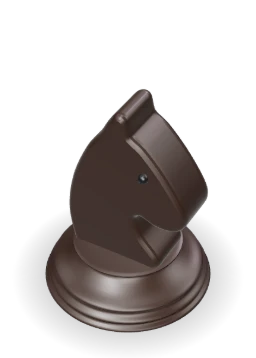
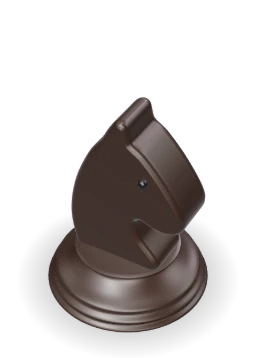
Release 1.63.3: boards fit again, full screen, chess capture sounds and clearer pieces, Undo, settings gear, SEO refresh

diff --git a/components/ui/icons.generated.ts b/components/ui/icons.generated.ts
@@ -57,6 +57,8 @@ export const ICONS: Record<string, string> = {
   "confetti": "<path d=\"M114.32,49.8A19.79,19.79,0,0,0,81.72,57L29.22,201.41A19.82,19.82,0,0,0,47.75,228a20,20,0,0,0,6.84-1.22L199,174.28a19.79,19.79,0,0,0,7.24-32.6ZM104.19,183.21l-31.4-31.4L82.94,123.9l49.16,49.16Zm-52.42,26.4Zm12-32.91L79.3,192.26l-24.45,8.89ZM157,164,92,99l10-27.58L184.57,154ZM128,40V16a12,12,0,0,1,24,0V40a12,12,0,0,1-24,0Zm116.48,83.51a12,12,0,0,1-17,17l-16-16a12,12,0,0,1,17-17Zm-.69-40.13-24,8a12,12,0,0,1-7.59-22.77l24-8a12,12,0,1,1,7.59,22.77ZM156.6,65.93C159.83,47.47,173.39,36,192,36c6.45,0,8.69-2.49,10-4.92a18,18,0,0,0,2-7.22V24a12,12,0,0,1,24,0c0,14.47-9.59,36-36,36-4.94,0-10.21,1.19-11.76,10.06A12,12,0,0,1,168.43,80a12.35,12.35,0,0,1-2.08-.18A12,12,0,0,1,156.6,65.93Z\"/>",
   "cooking-pot": "<path d=\"M253.76,93A12,12,0,0,0,237,90.24l-9,6.44V80a12,12,0,0,0-12-12H40A12,12,0,0,0,28,80V96.68l-9-6.44A12,12,0,1,0,5,109.76l23,16.42V184a36,36,0,0,0,36,36H192a36,36,0,0,0,36-36V126.18l23-16.42A12,12,0,0,0,253.76,93ZM204,184a12,12,0,0,1-12,12H64a12,12,0,0,1-12-12V92H204ZM76,40V16a12,12,0,0,1,24,0V40a12,12,0,0,1-24,0Zm40,0V16a12,12,0,0,1,24,0V40a12,12,0,0,1-24,0Zm40,0V16a12,12,0,0,1,24,0V40a12,12,0,0,1-24,0Z\"/>",
   "copy": "<path d=\"M216,28H88A12,12,0,0,0,76,40V76H40A12,12,0,0,0,28,88V216a12,12,0,0,0,12,12H168a12,12,0,0,0,12-12V180h36a12,12,0,0,0,12-12V40A12,12,0,0,0,216,28ZM156,204H52V100H156Zm48-48H180V88a12,12,0,0,0-12-12H100V52H204Z\"/>",
+  "corners-in": "<path d=\"M148,96V48a12,12,0,0,1,24,0V84h36a12,12,0,0,1,0,24H160A12,12,0,0,1,148,96ZM96,148H48a12,12,0,0,0,0,24H84v36a12,12,0,0,0,24,0V160A12,12,0,0,0,96,148Zm112,0H160a12,12,0,0,0-12,12v48a12,12,0,0,0,24,0V172h36a12,12,0,0,0,0-24ZM96,36A12,12,0,0,0,84,48V84H48a12,12,0,0,0,0,24H96a12,12,0,0,0,12-12V48A12,12,0,0,0,96,36Z\"/>",
+  "corners-out": "<path d=\"M220,48V88a12,12,0,0,1-24,0V60H168a12,12,0,0,1,0-24h40A12,12,0,0,1,220,48ZM88,196H60V168a12,12,0,0,0-24,0v40a12,12,0,0,0,12,12H88a12,12,0,0,0,0-24Zm120-40a12,12,0,0,0-12,12v28H168a12,12,0,0,0,0,24h40a12,12,0,0,0,12-12V168A12,12,0,0,0,208,156ZM88,36H48A12,12,0,0,0,36,48V88a12,12,0,0,0,24,0V60H88a12,12,0,0,0,0-24Z\"/>",
   "crown": "<path d=\"M252,80a32,32,0,1,0-60,15.45l-20.86,25.66L150.82,74.4a32,32,0,1,0-45.64,0L84.87,121.11,64,95.45a32,32,0,1,0-35,15.78l14,84.06A19.94,19.94,0,0,0,62.78,212H193.22A19.94,19.94,0,0,0,213,195.29l14-84.06A32.05,32.05,0,0,0,252,80Zm-32-8a8,8,0,1,1-8,8A8,8,0,0,1,220,72ZM128,44a8,8,0,1,1-8,8A8,8,0,0,1,128,44ZM36,72a8,8,0,1,1-8,8A8,8,0,0,1,36,72ZM189.83,188H66.17L55.29,122.78l23.4,28.79A12,12,0,0,0,88,156a12.87,12.87,0,0,0,1.63-.11,12,12,0,0,0,9.37-7.1L127.18,84l.82,0,.82,0L157,148.79a12,12,0,0,0,9.37,7.1A12.87,12.87,0,0,0,168,156a12,12,0,0,0,9.31-4.43l23.4-28.79Z\"/>",
   "crown-simple": "<path d=\"M232.63,70a19.82,19.82,0,0,0-23.55,4.71l-29.52,31.82L146.22,31.76l-.06-.14a20,20,0,0,0-36.32,0l-.06.14L76.44,106.52,46.92,74.7a20,20,0,0,0-34.6,16.81c0,.16.06.31.09.47L35.07,195.76A20,20,0,0,0,54.71,212H201.29a20,20,0,0,0,19.64-16.24L243.59,92c0-.16.07-.31.09-.47A19.82,19.82,0,0,0,232.63,70ZM198.06,188H57.94L39.06,101.51,71.2,136.16A12,12,0,0,0,91,132.89l37-83.07,37,83.07a12,12,0,0,0,19.76,3.27l32.14-34.65Z\"/>",
   "cube": "<path d=\"M225.6,62.64l-88-48.17a19.91,19.91,0,0,0-19.2,0l-88,48.17A20,20,0,0,0,20,80.19v95.62a20,20,0,0,0,10.4,17.55l88,48.17a19.89,19.89,0,0,0,19.2,0l88-48.17A20,20,0,0,0,236,175.81V80.19A20,20,0,0,0,225.6,62.64ZM128,36.57,200,76,128,115.4,56,76ZM44,96.79l72,39.4v76.67L44,173.44Zm96,116.07V136.19l72-39.4v76.65Z\"/>",

diff --git a/lib/copy/seo.ts b/lib/copy/seo.ts
@@ -52,7 +52,10 @@ export const GAME_SEO: Record<string, { kind: string; where: string }> = {
     kind: "logic puzzle",
     where: "fill the grid with suns and moons, an equal number in every row and column and never three in a line",
   },
-  sixer: { kind: "6x6 sudoku", where: "place the numbers 1 to 6 once in every row, every column and every 2 by 3 box" },
+  sixer: {
+    kind: "number grid (sudoku style)",
+    where: "pick a 6 by 6 or 9 by 9 board, then place every number once in each row, column and box",
+  },
   nine: { kind: "sudoku", where: "place the numbers 1 to 9 once in every row, every column and every 3 by 3 box" },
   weave: { kind: "path puzzle", where: "draw one path through the numbers in order that fills every cell of the grid" },
   flowline: { kind: "pipe puzzle", where: "rotate the pipes until water reaches every plant" },
@@ -195,6 +198,8 @@ export const siteFaq = (games: number = GAME_COUNT, worlds: number = WORLD_COUNT
 /** What SPUZL offers, one line each (llms-full.txt "Features" and the app's structured data featureList). */
 export const FEATURES: readonly string[] = [
   "Free play: every game any time, with fresh puzzles and levels that get harder.",
+  "Arcade: Gotcha, a trap platformer where every room tricks you once; Dash, an endless runner where you jump and duck; plus Echo, Flinch and Twins.",
+  "Kente: number grids at 6 by 6 or 9 by 9, picked before each game.",
   "Daily Five: five quick games a day, the same for everyone, with a shareable score grid.",
   "Streaks with Streak Freezes, quests, badges and levels.",
   "Duel: a live best-of-three race against a friend or a matched player.",
@@ -206,6 +211,8 @@ export const FEATURES: readonly string[] = [
   "Sparks earned by playing, spent in the Shop on hats for Spuz. Nothing is sold for money.",
   "Accessible: keyboard play, screen reader labels, colour patterns and reduced motion.",
   "Installable app (PWA) that works offline for puzzles already on screen.",
+  "Made for phones, tablets and computers: boards grow to fill big screens, and every game has a full-screen button.",
+  "Notifications on Home: your weekly roundup, new games, friend requests and Board Games waiting on your move.",
   "Feedback form on the Contact page; download or delete your data in Settings.",
 ];
 

diff --git a/design/design_handoff_spuzl/design/spuzl3d.js b/design/design_handoff_spuzl/design/spuzl3d.js
@@ -63,7 +63,9 @@ function snap(C, size, alignBottom) {
 const base = (br) => [[0, 0], [br, 0], [br, .035], [br + .012, .06], [br - .02, .09], [br - .02, .12], [br - .09, .16]];
 const arc = (cy, r, a0, a1, n = 12) => Array.from({ length: n + 1 }, (_, i) => { const a = a0 + (a1 - a0) * i / n; return [Math.max(0, r * Math.cos(a)), cy + r * Math.sin(a)]; });
 const PROFILES = {
-  P: [...base(.38), [.19, .22], [.14, .34], [.12, .48], [.20, .52], [.21, .555], [.12, .58], ...arc(.72, .165, -1.15, Math.PI / 2)],
+  // Pawn: a wide base, a short thick neck, a broad collar and a big round head (owner, 14 Nov 2026: pawns read as
+  // bishops). Same height as before, so every other piece keeps its scale.
+  P: [...base(.41), [.25, .20], [.18, .29], [.155, .42], [.27, .465], [.28, .505], [.16, .54], ...arc(.70, .19, -1.0, Math.PI / 2)],
   R: [...base(.42), [.27, .22], [.23, .36], [.22, .62], [.30, .66], [.30, .70], [.27, .72], [.29, .78], [.295, .84], [.27, .855], [.2, .85], [.19, .80], [0, .79]],
   N: [...base(.42), [.26, .22], [.28, .26], [0, .27]],
   B: [...base(.40), [.20, .22], [.14, .40], [.12, .60], [.21, .64], [.21, .68], [.11, .71], [.15, .76], [.18, .84], [.18, .92], [.15, 1.0], [.10, 1.06], [.05, 1.10], [.03, 1.11], ...arc(1.15, .05, -1.17, Math.PI / 2, 6)],
@@ -163,9 +165,10 @@ function outline(src, color, px, blur = 0) {
 }
 /** The live set: boxwood and ebony, with a soft brown edge on the light pieces so they read on light squares. */
 export const PIECE_SET = {
-  white: { color: 0xE2B577, env: .4, rough: .45, exposure: .95, coat: .3 },
+  // Light pieces a deeper boxwood (owner, 14 Nov 2026: "browning the white pieces"), with a firmer brown edge.
+  white: { color: 0xD39A55, env: .4, rough: .45, exposure: .95, coat: .3 },
   black: { color: 0x2A1A12, env: .7, rough: .4, coat: .5 },
-  whiteLine: { color: [80, 45, 15, .32], px: 2, blur: 1.4 },
+  whiteLine: { color: [70, 38, 12, .45], px: 2, blur: 1.2 },
 };
 export function pieces(size = 256, opt = PIECE_SET) {
   const key = 'pieces-v6:' + size + JSON.stringify(opt); const hit = cacheGet(key);

diff --git a/components/multiplayer/bay/boards.tsx b/components/multiplayer/bay/boards.tsx
@@ -1,6 +1,7 @@
 "use client";
 
 import { useEffect, useMemo, useRef, useState, type KeyboardEvent, type ReactNode } from "react";
+import { play } from "@/lib/audio";
 import { gridMove, gridMoveRC } from "@/lib/multiplayer/grid-nav";
 import { Icon } from "@/components/ui/Icon";
 import { boardGames } from "@/lib/copy/board-games";
@@ -210,7 +211,9 @@ const tc = boardGames.chess;
 
 function ChessLive({ state, seat, legal, disabled, lastMove, onMove, announce, coords }: LiveBoardProps) {
   const s = state as ChessMatch;
-  const cell = useCellSize(8, 0, 10, 48);
+  // 8.6 rows of height: the back-rank pieces stand 0.4 of a square above the board (3D sprites), and the file letters
+  // sit under it, so a wide screen keeps the whole board in view (owner, 14 Nov 2026).
+  const cell = useCellSize(8, 0, 10, 48, 8.6);
   const sprites = useSprites();
   const [sel, setSel] = useState<string | null>(null);
   /** a pawn move to the last rank waiting for the player's choice of piece (uci from+to), for this position only */
@@ -230,6 +233,19 @@ function ChessLive({ state, seat, legal, disabled, lastMove, onMove, announce, c
     setSel(null);
   }
   const sending = sent?.fen === s.fen ? sent.move : null;
+  // Every move, by either side, sounds like what it did (owner, 14 Nov 2026): a capture knocks, a check rings, the
+  // rest is a plain placement. An undo (pieces come back) stays quiet.
+  const lastFen = useRef(s.fen);
+  useEffect(() => {
+    const before = lastFen.current;
+    lastFen.current = s.fen;
+    if (before === s.fen) return;
+    const count = (fen: string) => fen.split(" ")[0].replace(/[^a-zA-Z]/g, "").length;
+    const was = count(before);
+    const now = count(s.fen);
+    if (now > was) return;
+    play(now < was ? "pieceCapture" : inCheck(parseFen(s.fen)) ? "pieceCheck" : "piecePlace");
+  }, [s.fen]);
   const pos = useMemo(() => {
     const p = parseFen(s.fen);
     const m = sending ? fromUci(p, sending) : null;

diff --git a/components/play/BotBoard.tsx b/components/play/BotBoard.tsx
@@ -98,7 +98,8 @@ export default function BotBoard({ puzzle, disabled, api, extra }: BoardProps<Bo
       const m = bot.choose(state, turn, puzzle.level, r);
       const next = bot.rules.apply(state, turn, m, r);
       plies.current++;
-      play(isRoll(m) ? "tick" : "clack");
+      // Chess sounds its own moves (capture, check, placement: bay/boards.tsx ChessLive).
+      if (puzzle.game !== "chess") play(isRoll(m) ? "tick" : "clack");
       setLast(m);
       setState(next);
       const st = bot.rules.status(next);
@@ -113,7 +114,7 @@ export default function BotBoard({ puzzle, disabled, api, extra }: BoardProps<Bo
       }
     }, BOT_DELAY_MS);
     return () => clearTimeout(id);
-  }, [bot, state, over, turn, disabled, puzzle.level, api, ludo]);
+  }, [bot, state, over, turn, disabled, puzzle.level, puzzle.game, api, ludo]);
 
   const thinking = !!bot && !!state && !over && turn !== ME && !disabled;
   // Restart confirm (Restart is in the game menu); a game with a move in it is worth asking about.
@@ -131,7 +132,7 @@ export default function BotBoard({ puzzle, disabled, api, extra }: BoardProps<Bo
       const next = rules.apply(state, ME, m, rng.current);
       plies.current++;
       setMoved(true);
-      play(isRoll(m) ? "tick" : "clack");
+      if (puzzle.game !== "chess") play(isRoll(m) ? "tick" : "clack");
       // Undo goes back to the start of the player's move (Ludo has dice, so no undo there).
       if (!ludo && !isRoll(m)) setHistory((h) => [...h, state]);
       setLast(m);
@@ -155,7 +156,7 @@ export default function BotBoard({ puzzle, disabled, api, extra }: BoardProps<Bo
         api.announce(t.passed);
       }
     },
-    [rules, state, disabled, over, turn, ludo, api],
+    [rules, state, disabled, over, turn, ludo, api, puzzle.game],
   );
 
   // A tap the rules refuse (a compulsory capture, an empty pit): the reason in the feedback line, with the slip

diff --git a/components/game/GameShell.tsx b/components/game/GameShell.tsx
@@ -26,9 +26,14 @@ import { copy } from "@/lib/copy";
 import { leaveCopy } from "@/lib/copy/leave";
 import { leavePolicy, type LeaveContext } from "@/lib/game/leave";
 import { WideZoom } from "./WideZoom";
+import { FullscreenButton } from "./FullscreenButton";
 
-/** Boards that size themselves to the wide screen (no extra zoom): Five fits its tiles to the height left over. */
-const SIZES_ITSELF = new Set(["five"]);
+/**
+ * Boards that stay at their phone size on a wide screen and are safe to scale up as a whole (components/game/WideZoom).
+ * Opt-in only (owner, 14 Nov 2026): boards that size themselves from their container (chess and the other board
+ * games, the grids) are never zoomed, or the two would feed each other and the board would grow off the screen.
+ */
+const ZOOMED = new Set(["quads", "remix", "quickfire", "flagged", "twotruths", "emojihits", "echo", "flinch", "seven", "rungs", "oware"]);
 import {
   useViewportHeight,
   useViewportWidth,
@@ -645,6 +650,7 @@ export function GameShell<P, St>(props: GameShellProps<P, St>) {
       {wide && !banner && (
         <div className="flex max-w-[640px] min-w-0 flex-[2] items-center justify-center">{foldingRule("min-w-0", true)}</div>
       )}
+      <FullscreenButton />
       {/* R2-15: the one header timer. Never in a practice round; before the first move it holds its place with the
           clock icon only (never "00:00"), and the digits appear once it runs. A resumed game shows its time. */}
       {!relaxed && !guided && (
@@ -708,7 +714,7 @@ export function GameShell<P, St>(props: GameShellProps<P, St>) {
           </motion.div>
         )}
       </AnimatePresence>
-      <WideZoom on={wide && meta.engine !== "phaser" && !SIZES_ITSELF.has(meta.id)} column={colW}>
+      <WideZoom on={wide && ZOOMED.has(meta.id)} column={colW}>
         <Board
           {...extra}
           extra={extra}

diff --git a/components/game/FullscreenButton.tsx b/components/game/FullscreenButton.tsx
@@ -1,0 +1,37 @@
+"use client";
+
+import { useEffect, useState } from "react";
+import { IconButton } from "@/components/ui/IconButton";
+import { gameMenuCopy as M } from "@/lib/copy/game-menu";
+
+/**
+ * Full screen for a game (owner, 14 Nov 2026): the browser's own full screen (no address bar or tabs), and the same
+ * button (or Esc) brings it back. Hidden where the browser can't do it (an iPhone's Safari), so it never does nothing.
+ */
+export function FullscreenButton() {
+  const [can, setCan] = useState(false);
+  const [on, setOn] = useState(false);
+  useEffect(() => {
+    // eslint-disable-next-line react-hooks/set-state-in-effect -- the browser's support is only known on the client
+    setCan(!!document.fullscreenEnabled);
+    const sync = () => setOn(!!document.fullscreenElement);
+    sync();
+    document.addEventListener("fullscreenchange", sync);
+    return () => document.removeEventListener("fullscreenchange", sync);
+  }, []);
+  if (!can) return null;
+  return (
+    <IconButton
+      icon={on ? "corners-in" : "corners-out"}
+      label={on ? M.fullscreenExit : M.fullscreen}
+      title={on ? M.fullscreenExit : M.fullscreen}
+      aria-pressed={on}
+      data-fullscreen
+      className="max-[359px]:hidden"
+      onClick={() => {
+        if (document.fullscreenElement) void document.exitFullscreen().catch(() => {});
+        else void document.documentElement.requestFullscreen({ navigationUI: "hide" }).catch(() => {});
+      }}
+    />
+  );
+}

diff --git a/components/multiplayer/bay/BayScreen.tsx b/components/multiplayer/bay/BayScreen.tsx
@@ -525,10 +525,10 @@ export function BayMatch({ id }: { id: string }) {
   const tools = [
     v.game !== "ludo" && !v.rated
       ? {
-          l: "Takeback",
+          l: "Undo",
           i: "arrow-u-up-left",
           c: "var(--text-muted)",
-          on: () => action("takeback_request", v.bot ? undefined : "Takeback asked."),
+          on: () => action("takeback_request", v.bot ? undefined : "Asked to undo."),
           // Nothing of yours to take back yet: off, and it says why (the server refuses it too).
           off: takebackPlies(v.moves, seat) === 0 ? boardGames.match.noTakeback : undefined,
         }
@@ -588,7 +588,7 @@ export function BayMatch({ id }: { id: string }) {
   const offer = (offerFromThem(v.drawOffer) || offerFromThem(v.takebackOffer)) && v.status === "active" && (
     <div className={`bg-surface-raised flex items-center gap-2 rounded-[16px] p-3 ${gap}`} role="alert">
       <span className="flex-1 text-[15px] font-medium">
-        {offerFromThem(v.drawOffer) ? `${opp?.nickname} offers a draw.` : `${opp?.nickname} asks for a takeback.`}
+        {offerFromThem(v.drawOffer) ? `${opp?.nickname} offers a draw.` : `${opp?.nickname} asks to undo their last move.`}
       </span>
       <button
         type="button"

diff --git a/components/game/useBoardSize.ts b/components/game/useBoardSize.ts
@@ -68,7 +68,16 @@ export function wideAside(vw: number): number {
  * together in the middle of the page, so spare width goes to the outer margins, never between board and panel.
  * Square boards are 1; wide boards (a pit row, a running course) are wider.
  */
-export const WIDE_ASPECT: Record<string, number> = { five: 0.62, oware: 2.4, gotcha: 1.8, dash: 1.8, fourup: 1.17, remix: 1.3, quads: 1.3 };
+export const WIDE_ASPECT: Record<string, number> = {
+  chess: 0.93,
+  five: 0.62,
+  oware: 2.4,
+  gotcha: 1.8,
+  dash: 1.8,
+  fourup: 1.17,
+  remix: 1.3,
+  quads: 1.3,
+};
 /** A board column is never narrower than this on a wide screen (cards, word games and their keyboards). */
 export const WIDE_COL_MIN = 600;
 

diff --git a/app/(tabs)/me/page.tsx b/app/(tabs)/me/page.tsx
@@ -102,10 +102,11 @@ export default function MePage() {
             </div>
             <Link
               href="/settings"
-              aria-label="Edit profile and settings"
+              aria-label="Settings"
+              title="Settings"
               className="press bg-surface-raised flex size-11 shrink-0 items-center justify-center rounded-[14px]"
             >
-              <Icon name="pencil-simple" size={20} />
+              <Icon name="gear-six" size={20} />
             </Link>
           </header>
 

diff --git a/games/chess/Board.tsx b/games/chess/Board.tsx
@@ -71,7 +71,7 @@ export default function ChessBoard({ puzzle, initialState, hint, disabled, api }
   const sprites = useSprites();
   // The move line under the board: the squares step down until it fits under the board (laptops, short phones).
   const rootRef = useRef<HTMLDivElement>(null);
-  const cell = useFitHeight(useCellSize(8, 0, 0, 48), 36, 8, rootRef, "shell");
+  const cell = useFitHeight(useCellSize(8, 0, 0, 48, 8.6), 36, 8, rootRef, "shell");
   const done = r.mated;
   const rows = toRows(shown.b);
 

diff --git a/tests/e2e/settings.spec.ts b/tests/e2e/settings.spec.ts
@@ -9,7 +9,7 @@ test("settings: back to Me, and change the nickname", async ({ page }, info) => 
   await guest(taken);
   await onboardGuest(page);
   await page.goto("/me");
-  await page.getByRole("link", { name: "Edit profile and settings" }).click();
+  await page.getByRole("link", { name: "Settings", exact: true }).first().click();
   await page.waitForURL(/\/settings/);
   await page.getByRole("button", { name: "Back" }).click();
   await page.waitForURL((u) => u.pathname === "/me");
